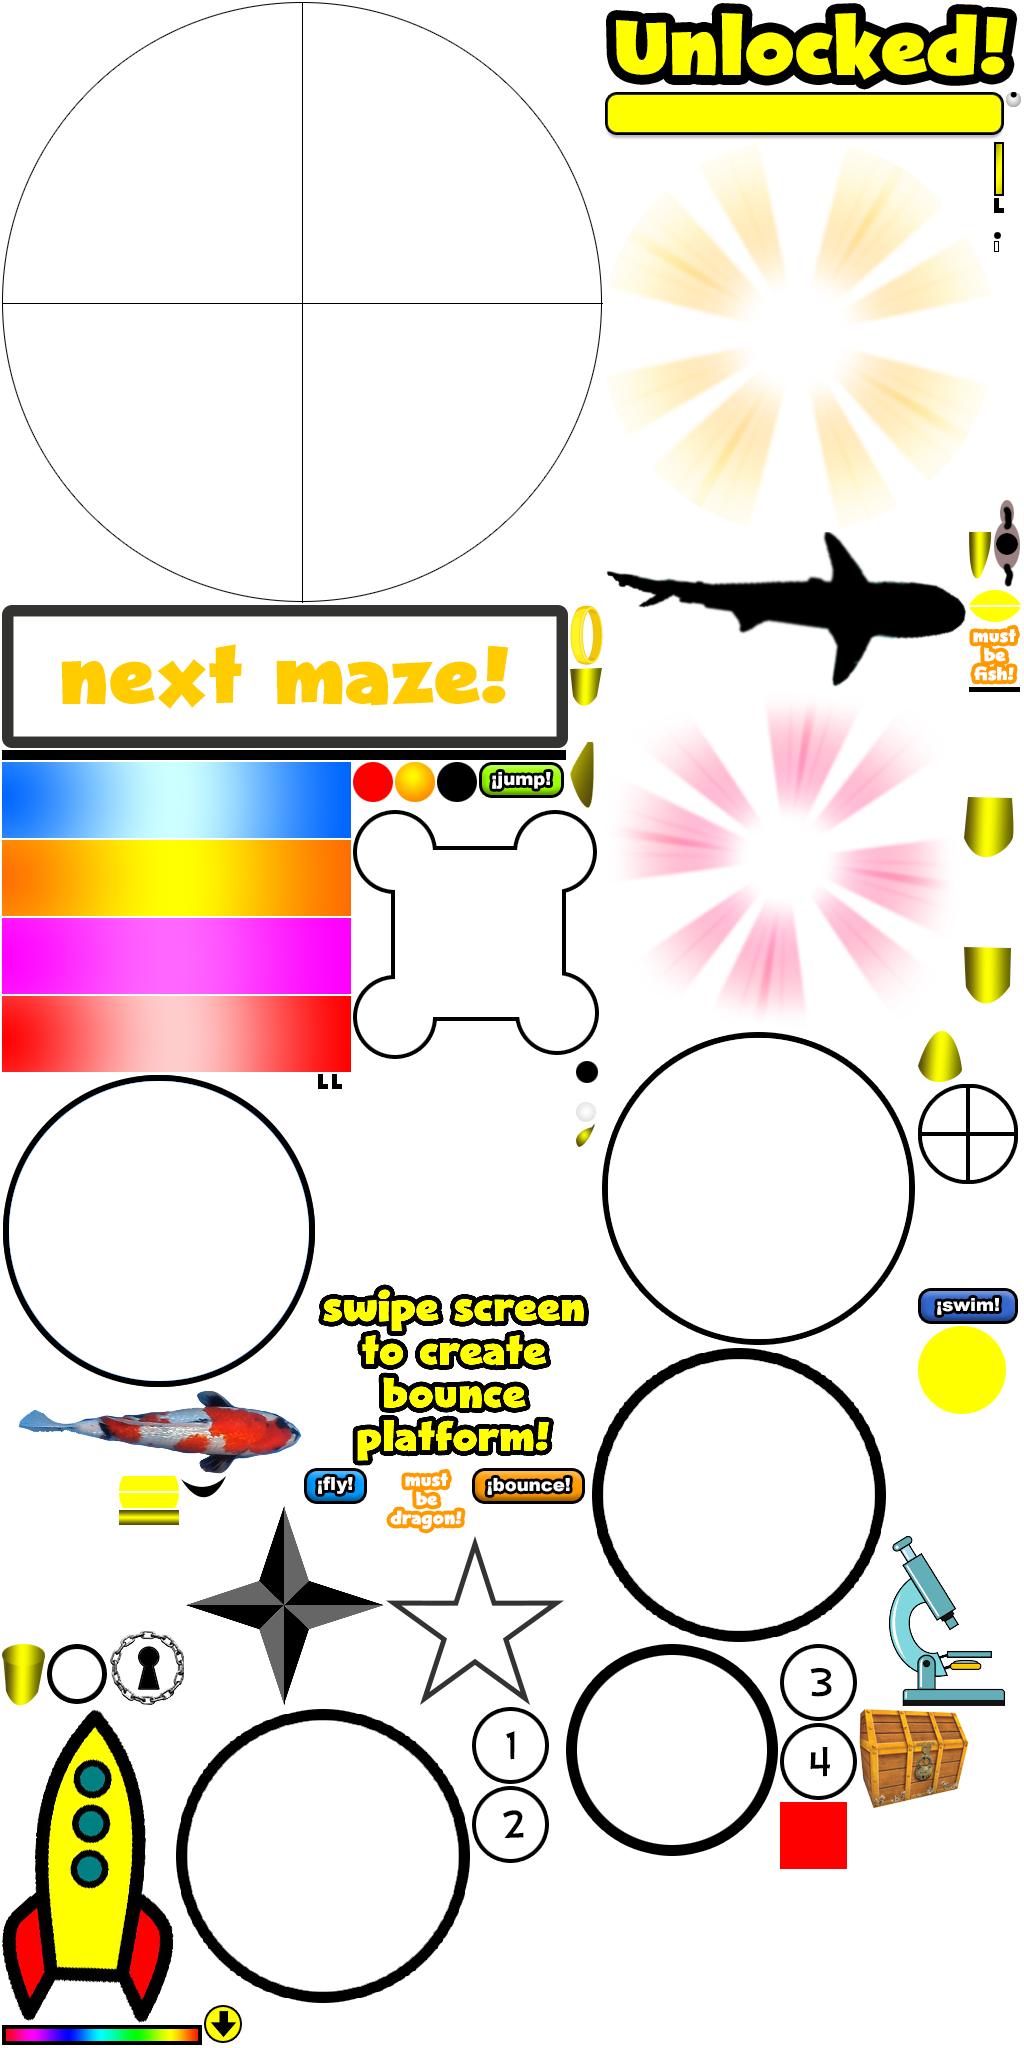
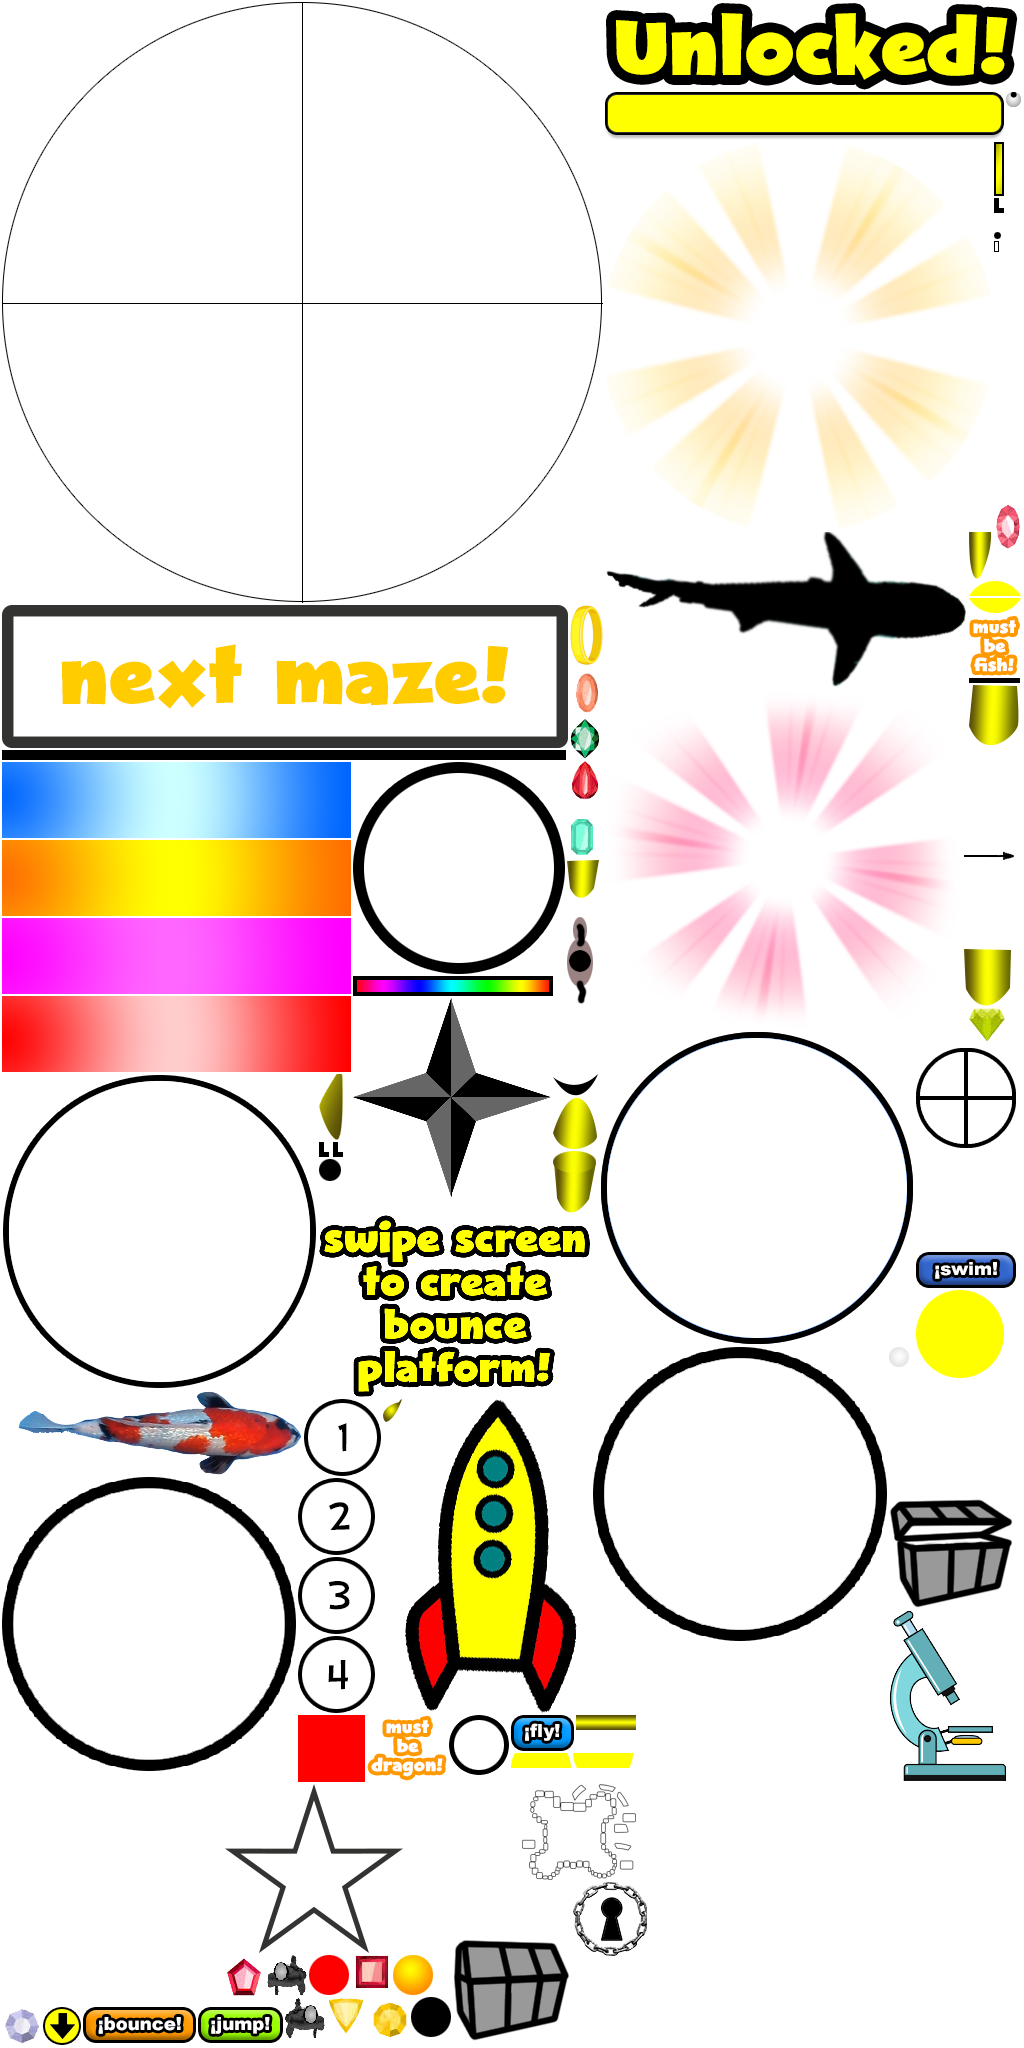
added somthing

diff --git a/src/animations/supportingClasses/grid/baddies/baddy.js b/src/animations/supportingClasses/grid/baddies/baddy.js
@@ -19,9 +19,19 @@ export default function (gridBuild) {
 			this.cont = gridBuild.cont;
 			this.destPoint = {x: this.utils.canvasWidth / 2, y: this.utils.canvasHeight / 2};
 			this.root = this.utils.root;
-			this.body = Assets.Sprite(str);
+
+			//this.body = Assets.Sprite(str);
+			let bodyTextures = [
+				Assets.Texture('soldierWalking1.png'),
+				Assets.Texture('soldierWalking2.png')
+			];
+			this.body = Assets.AnimatedSprite(bodyTextures);
+			this.body.animationSpeed = 0.1;
+			this.body.play();
+
 			this.body.anchor.set(0.5);
 			this.speed = this.utils.randomNumberBetween(0.1, 0.5);
+			this.body.animationSpeed = this.speed * 0.25;
 			this.spearSpeed = this.utils.randomNumberBetween(0.6, 0.8);
 			this.body.classRef = this;
 			this.body.radius = this.body.r = 11;
@@ -39,22 +49,27 @@ export default function (gridBuild) {
 				let index = this.utils.root.grid.gridBuild[`${this.utils.root.activeMode}Baddies`].soldiers.indexOf(this.body);
 				this.utils.root.grid.gridBuild[`${this.utils.root.activeMode}Baddies`].soldiers.splice(index, 1);
 			}
-		},
+		}, 
 		onScreen: function () {
 				
-			let currentSquare = this.currentSquare().block;
-
-			let grid = gridBuild.cont;
+			let currentSquare = this.currentSquare().block,
+			    grid = gridBuild.cont,
+			    leftEdge = -currentSquare.x - this.blockWidth,
+			    topEdge = -currentSquare.y  - this.blockHeight,
+			    rightEdge = this.utils.canvasWidth - currentSquare.x, 
+			    bottomEdge = this.utils.canvasHeight - currentSquare.y;
 
 			if (
-				grid.x > -currentSquare.x && 
-				grid.x < this.utils.canvasWidth - currentSquare.x &&
-				grid.y > -currentSquare.y && 
-				grid.y < this.utils.canvasHeight - currentSquare.y &&
+				grid.x >  leftEdge && 
+				grid.x <  rightEdge &&
+				grid.y >  topEdge && 
+				grid.y <  bottomEdge &&
 				 this.body.alpha
 				 ) {
+				if(!this.body.playing)this.body.play();
 				return true;
 			}
+			if(this.body.playing)this.body.stop();
 			return false;
 
 		},
@@ -174,7 +189,7 @@ export default function (gridBuild) {
 
 					if (xDiff < this.buffer && yDiff < this.buffer) {
 						this.resetSpear();
-						//this.utils.hero.activeHero.hit();
+						this.utils.hero.activeHero.hit();
 						this.utils.root.score.gridScore.gridWeaponHit();
 					}
 				}

diff --git a/src/animations/supportingClasses/grid/items/treasure/treasureAnimation.js b/src/animations/supportingClasses/grid/items/treasure/treasureAnimation.js
@@ -46,16 +46,17 @@ export default {
 			this.radialCont.scale.set(0);
 			for(let i = 0; i < this.radialQ; i ++){
 				let r = Assets.Sprite('line.png');
-				r.width = 1;
-				r.height = this.utils.randomNumberBetween(50, 100);
+				r.width = 0.25;
+				r.height = this.utils.randomNumberBetween(10, 50);
 				//r.alpha = this.utils.randomNumberBetween(0.2, 0.8);
 				r.anchor.x = 0;
 				r.anchor.y = 0;
 				r.storeHeight = r.height;
-				r.variance = this.utils.randomNumberBetween(20, 50);
+				r.variance = this.utils.randomNumberBetween(10, 20);
 				r.rotation = this.utils.deg2rad(i*(360 / this.radialQ));
 				r.speed = this.utils.randomNumberBetween(.0003, .003);
-				r.tint = this.utils.randomColor();
+				r.tint = 0xFFFF00;//this.utils.randomColor();
+				r.alpha = this.utils.randomNumberBetween(0.1, 1);
 				this.radials.push(r);
 				this.radialCont.addChild(r);
 			}
@@ -67,8 +68,10 @@ export default {
 
 			for (let i = 0; i < this.coinQ; i ++) {
 				let r = this.coins[i];
+				let num = Math.ceil(Math.random()*11);
+				r.texture = this.utils.spritesheet.textures[`jewel${num}.png`];
 				r.x = r.y = 0;
-				r.scale.set(this.utils.randomNumberBetween(0.1, 0.5));
+				//r.scale.set(this.utils.randomNumberBetween(0.1, 0.5));
 				r.vy = this.utils.randomNumberBetween(this.vys[0], this.vys[1]);
 				r.vx = this.utils.randomNumberBetween(this.vxs[0], this.vxs[1]);
 				r.rotate = this.utils.randomNumberBetween(-4, 4);
@@ -79,6 +82,7 @@ export default {
 
 
 			this.activeChest = activeChest;
+			this.activeChest.texture = this.utils.spritesheet.textures['openTreasureChest.png'];
 				//place chest in center and rock it back and forth;
 			this.utils.root.grid.gridAction.pause = true;
 			//this.utils.root.action = false;

diff --git a/src/animations/supportingClasses/fly/heroFly.js b/src/animations/supportingClasses/fly/heroFly.js
@@ -9,6 +9,7 @@ export default function () {
 		utils: Utils,
 		segmentsQ: 10,
 		dyeLot: [],
+		timeoutHandler: undefined,
 		init: function (parentCont) {
 			this.parentCont = parentCont;
 			let head = Assets.Sprite('dragonHead.png');
@@ -129,19 +130,19 @@ export default function () {
 			}
 		},
 		hit: function () {
-	
-			this.dyeLot.forEach(seg => {
-				seg.tint = 0xFF0000;
-				seg.alpha = 0;
-				Tweens.tween(seg, 0.15, 
-					{alpha: [0, 1]}, 
-					this.fadeToBlack.bind(this, seg))
-			})
+			if(!this.timeoutHandler){
+				this.dyeLot.forEach(seg => {
+					seg.tint = 0xFF0000;
+				})
+				this.timeoutHandler = setTimeout(this.fadeToBlack.bind(this), 100)
+			}
+			
 		},
 		fadeToBlack: function (part){
-			part.alpha = 1;
-			part.tint = 0x000000;
-			//Tweens.tween(part, 0.5,{tint: [part.tint, 0x000000]})
+			this.dyeLot.forEach(seg => {
+				seg.tint = 0x000000;
+			})
+			this.timeoutHandler = undefined;
 			
 		},
 		bodySegment: function (radius, color, yVal, str) {

diff --git a/src/animations/supportingClasses/grid/gridBuild.js b/src/animations/supportingClasses/grid/gridBuild.js
@@ -100,7 +100,8 @@ export default {
 			let totalCoins = this.utils.root.score[`${this.utils.root.activeMode}Total`];
 
 			if (coinsInArray < totalCoins) {
-				let coin = Assets.Sprite('transparentRing.png');
+				let num = Math.ceil(Math.random()*11);
+				let coin = Assets.Sprite(`jewel${num}.png`);
 				coin.hit = false;
 
 				
@@ -290,7 +291,7 @@ export default {
 
 			}
 
-			coin.scale.set(this.utils.randomNumberBetween(0.075, 0.25));
+			//coin.scale.set(this.utils.randomNumberBetween(0.075, 0.25));
 
 			coin.startPointX = coin.x; 
 			coin.differential = this.utils.randomNumberBetween(10, 30);

diff --git a/src/animations/animationsConfig.js b/src/animations/animationsConfig.js
@@ -3,9 +3,9 @@ export default {
 	jumpTokenUnlockPoints: 10,
 	bounceTotalPoints: 1,
 	swimVelocities: [1, 2],
-	flyVelocity: 3,
+	flyVelocity: 6,
 	swimVelocity: 6,
-	flyTreasureChestQ: 10,
+	flyTreasureChestQ: 100,
 	flyCoinsPerTreasureChest: 100,
 	flyBaddyHitCost: 1,
 	swimTreasureChestQ: 10,
@@ -13,7 +13,7 @@ export default {
 	spaceRowQ: 10,
 	spaceColQ: 10,
 	spaceDotsPerPlanet: 10,
-	magicPillsQ: 0,
+	magicPillsQ: 20,
 	transitionItemsQ: 0,
 	jumpBlockSize: [400, 400],
 	bounceBlockSize: [1400, 1400],

diff --git a/src/animations/supportingClasses/grid/baddies/baddyWeapon.js b/src/animations/supportingClasses/grid/baddies/baddyWeapon.js
@@ -7,10 +7,10 @@ export default function (gridBuild) {
 		counterLimit: 200,
 		init: function (baddy) {
 			this.baddy = baddy;
-			this.spear = Assets.Sprite('bouncePlatformLine.png');
+			this.spear = Assets.Sprite('spear.png');
 			this.spear.anchor.set(0.5);
-			this.spear.width = 50;
-			this.spear.height = 4;
+			// this.spear.width = 50;
+			// this.spear.height = 4;
 			this.spear.vx = 0;
 			this.spear.vy = 0;
 			this.spear.classRef = this;

diff --git a/src/animations/utils/assetCreation.js b/src/animations/utils/assetCreation.js
@@ -19,7 +19,9 @@ export default {
 
 			this.coinQ = (this.utils.app.renderer instanceof PIXI.WebGLRenderer)?Config.flyCoinsPerTreasureChest:10;
 			for (let i = 0; i < this.coinQ; i ++) {
-				this.coins.push(this.Sprite('transparentRing.png'));
+				let num = Math.ceil(Math.random()*11);
+				//console.log(num)
+				this.coins.push(this.Sprite(`jewel${num}.png`));
 			}
 
 

diff --git a/src/animations/supportingClasses/universal/keyHandler.js b/src/animations/supportingClasses/universal/keyHandler.js
@@ -38,6 +38,7 @@ export default function () {
         },
         upHit: function () {
             //this.parent.hero.heroJump.look('up');
+             this.parent.activeAction.vx =  this.parent.activeAction.vy = 0;
         },
         downHit: function () {
             //this.vy = 0;

diff --git a/src/animations/supportingClasses/grid/baddies/baddyHouse.js b/src/animations/supportingClasses/grid/baddies/baddyHouse.js
@@ -6,7 +6,7 @@ export default function (gridBuild) {
 		init: function () {
 			this.c = Assets.Sprite('castle.png');
 			this.c.anchor.set(0.5);
-			this.c.scale.set(0.25);
+			//this.c.scale.set(0.25);
 			this.c.classRef = this;
 			return this.c;
 		},

diff --git a/src/animations/supportingClasses/grid/baddies/baddyIndex.js b/src/animations/supportingClasses/grid/baddies/baddyIndex.js
@@ -10,7 +10,7 @@ export default function () {
 		spears: [],
 		castles: [],
 		soldiers: [],
-		solderPerGridSquareQ: 1,
+		solderPerGridSquareQ: 2,
 		baddiesPool: [],
 		castlePool: [],
 		spearsPool: [],
